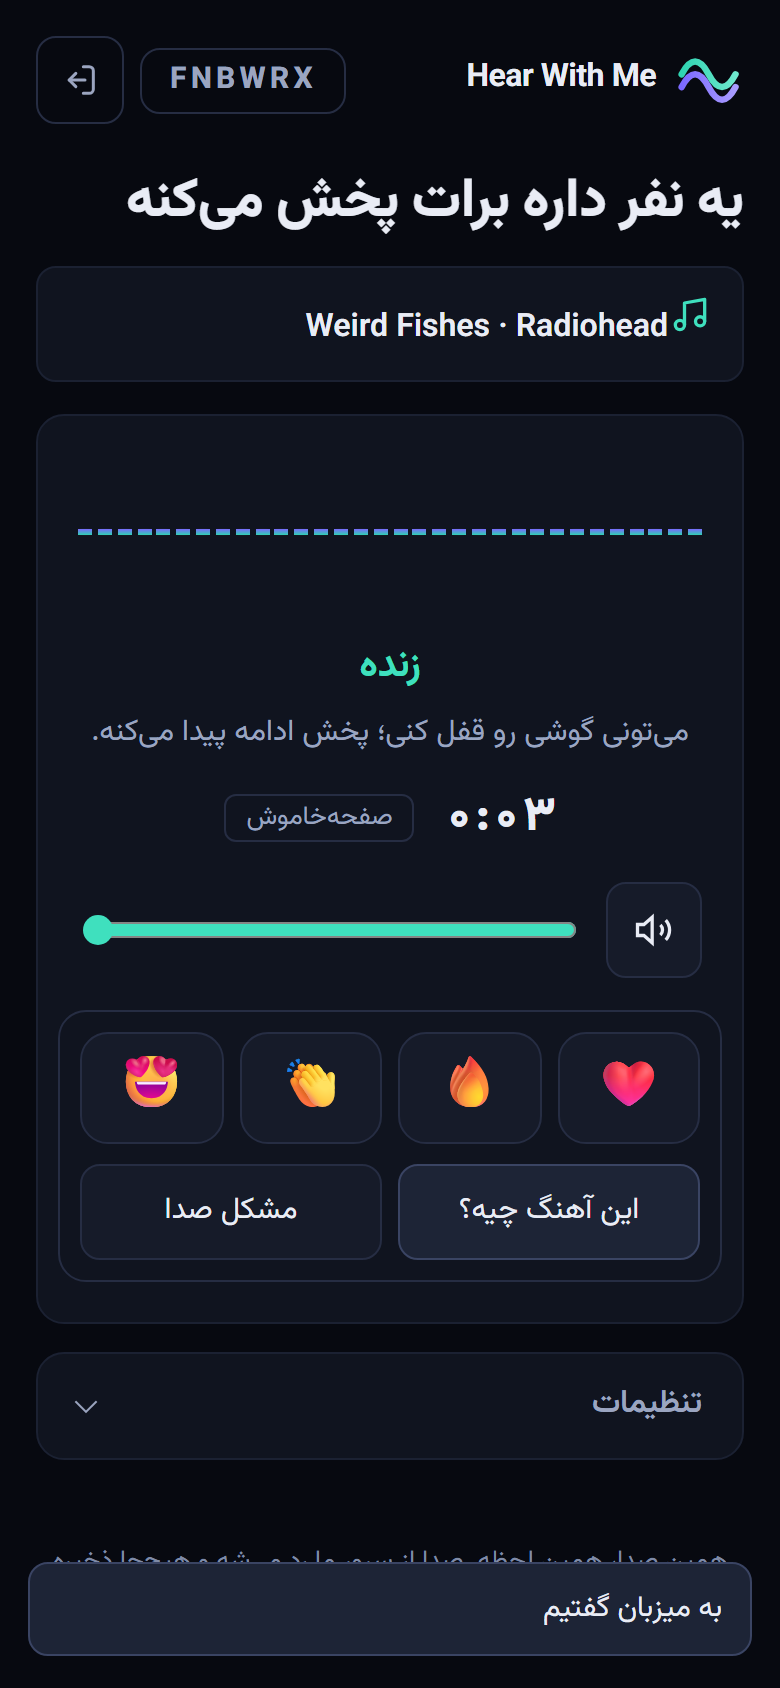
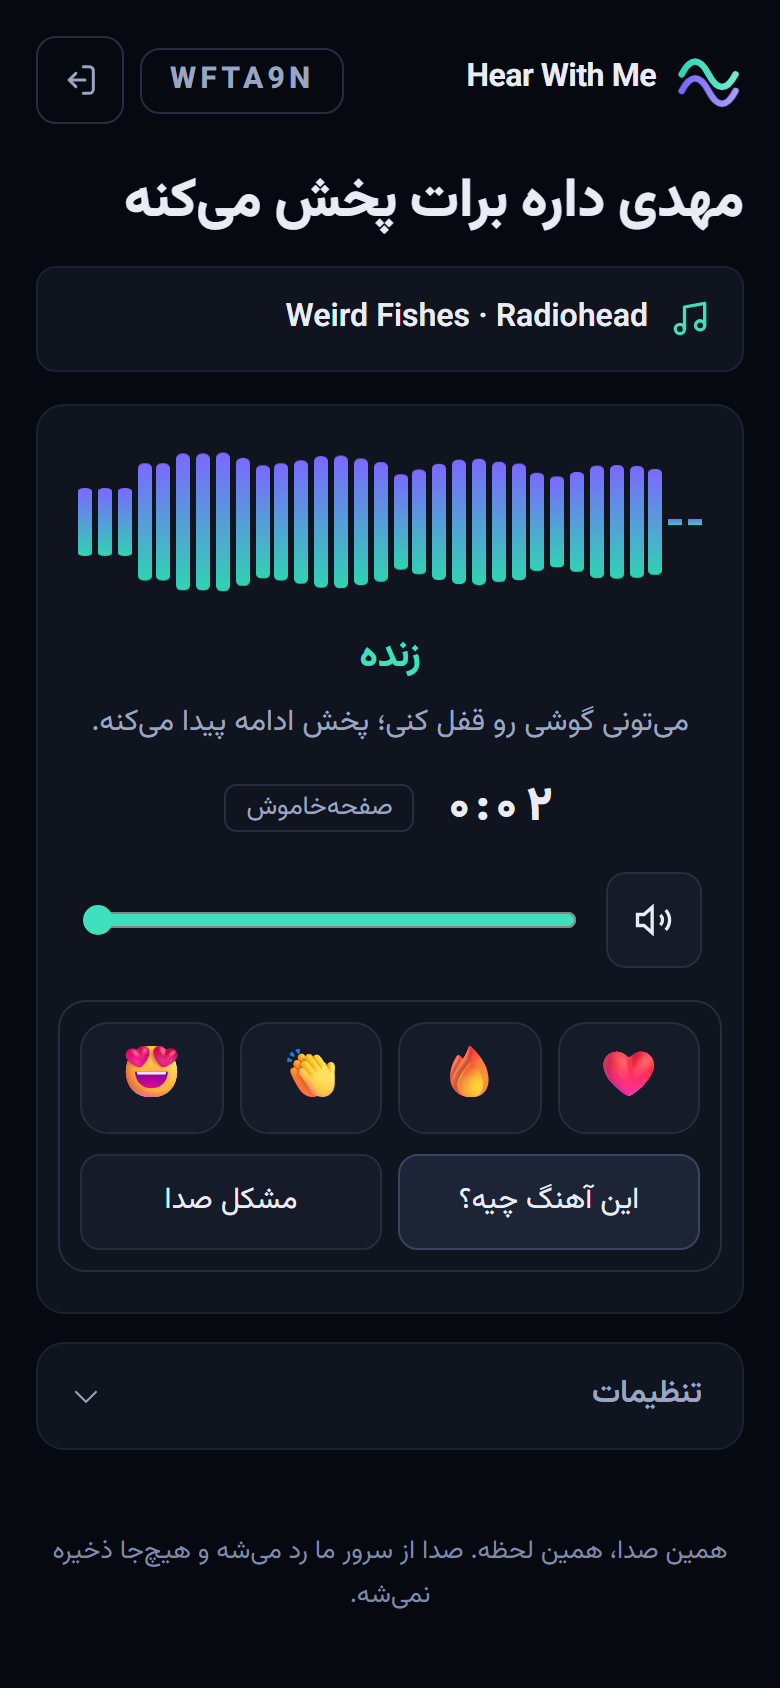
Dark only; fix the now-playing row; truthful README images
- Remove the light scheme: the pages are dark, as before.
- The now-playing row was set to display:block by show(), which broke its
  flex layout and left the note icon off-centre. It now stays a flex row.
- Screenshots: the guest and host both join before the sound starts, and
  the host plays a generated track so the meter is up in the shot, instead
  of catching a silent gap of the fake capture device.
- README: drop the light-scheme image and text.

diff --git a/public/style.css b/public/style.css
@@ -6,9 +6,8 @@
    landing wave, the level meter and the mark, and nowhere else. Everything
    else is flat: one ground, one panel colour, hairlines, no shadows.
 
-   Dark is the default because this is listened to in the evening, on a
-   phone, in a dark room or a car. A light scheme follows the system
-   setting for daytime. Both come from the same tokens below.
+   Dark only, on purpose: this is listened to in the evening, on a phone, in a
+   dark room or a car, and one look is easier to keep right than two.
 
    Dials: ENERGY 1 / RHYTHM 2 / MOTION 1. The only thing that moves on its
    own is the landing wave and the live meter; both are the product.
@@ -26,7 +25,9 @@
 }
 
 :root {
-  color-scheme: dark light;
+  /* Native controls (checkboxes, the select popup, the scrollbar) are painted
+     by the browser, and without this they come out light on a dark page. */
+  color-scheme: dark;
 
   /* ground */
   --bg: #070910;
@@ -68,37 +69,6 @@
   --ease: cubic-bezier(.2, .8, .2, 1);
 }
 
-@media (prefers-color-scheme: light) {
-  :root {
-    --bg: #F6F7FB;
-    --panel: #FFFFFF;
-    --panel-2: #EEF0F7;
-    --panel-3: #E3E6F1;
-    --field: #FFFFFF;
-    --line: #CDD3E4;
-    --line-strong: #98A1BE;
-    --line-soft: #E1E5F0;
-
-    --text: #12151F;
-    --muted: #444D69;   /* 8.0:1 on white */
-    --faint: #5A6483;   /* 5.9:1 on white, 5.4:1 on --bg */
-
-    --signal: #0A7A66;       /* 5.4:1 on white */
-    --signal-fill: #16B696;
-    --on-signal: #03130E;    /* 8.4:1 on --signal-fill */
-    --violet: #5B4BDB;
-    --wave-alpha: .42;
-
-    --st-live: #0A7A66;
-    --st-wait: #9A5F00;
-    --st-idle: #5A6483;
-    --st-alert: #C0283A;
-    --alert-text: #9E1B2B;
-    --on-alert: #FFFFFF;
-
-    --scrim: rgba(246, 247, 251, .88);
-  }
-}
 
 *, *::before, *::after { box-sizing: border-box; }
 
@@ -798,7 +768,7 @@ input[type="text"].code-input::placeholder { letter-spacing: 0; text-transform: 
 .qr-code {
   width: min(232px, 62vw);
   margin: 0 auto 12px;
-  /* The code's own light colour in both schemes: the quiet zone is part of the
+  /* The code's own light colour: the quiet zone is part of the
      symbol, and a dark frame reads to a scanner as more code. */
   background: var(--qr-bg);
   border-radius: var(--r-control);

diff --git a/public/index.html b/public/index.html
@@ -5,9 +5,8 @@
   <meta name="viewport" content="width=device-width, initial-scale=1, viewport-fit=cover" />
   <title>Hear With Me | هرچی میشنوی، اونم بشنوه</title>
   <meta name="description" content="صدای کامپیوترت رو با یه لینک، زنده برای هرکی خواستی پخش کن. بدون نصب، بدون حساب، و صدا هیچجا ذخیره نمیشه." />
-  <meta name="color-scheme" content="dark light" />
-  <meta name="theme-color" content="#070910" media="(prefers-color-scheme: dark)" />
-  <meta name="theme-color" content="#F6F7FB" media="(prefers-color-scheme: light)" />
+  <meta name="color-scheme" content="dark" />
+  <meta name="theme-color" content="#070910" />
 
   <link rel="icon" href="/favicon.svg" type="image/svg+xml" />
   <link rel="alternate icon" href="/favicon.ico" sizes="32x32" />

diff --git a/public/room.html b/public/room.html
@@ -5,9 +5,8 @@
   <meta name="viewport" content="width=device-width, initial-scale=1, viewport-fit=cover" />
   <title>اتاق Hear With Me | همین صدا، همین لحظه</title>
   <meta name="description" content="این اتاق زندهست. همون صدایی که میزبان میشنوه، همون لحظه به تو میرسه. بدون نصب، بدون حساب." />
-  <meta name="color-scheme" content="dark light" />
-  <meta name="theme-color" content="#070910" media="(prefers-color-scheme: dark)" />
-  <meta name="theme-color" content="#F6F7FB" media="(prefers-color-scheme: light)" />
+  <meta name="color-scheme" content="dark" />
+  <meta name="theme-color" content="#070910" />
 
   <!-- Filled in by whichever server is hosting this: "sse" for the Node
        server, "ws" for an edge runtime that cannot hold a response open. -->

diff --git a/public/js/guest-session.js b/public/js/guest-session.js
@@ -441,7 +441,7 @@ export function createGuestSession({
       title.textContent = text;
       ui.guestNowPlaying.append(note, hidden, title);
     }
-    show(ui.guestNowPlaying, !!text);
+    show(ui.guestNowPlaying, !!text, 'flex');
     publishMediaSession(text);
   }
 

diff --git a/README.fa.md b/README.fa.md
@@ -35,10 +35,6 @@
 </tr>
 </table>
 
-صفحهها تنظیم روشن یا تاریکِ سیستم رو دنبال میکنن. ظاهر پیشفرض تاریکه.
-
-<img src="docs/guest-light.png" width="260" alt="صفحهی مهمان در حالت روشن" />
-
 ## دو مسیر برای یک صدا
 
 | | همزمان (مستقیم) | صفحهخاموش |

diff --git a/README.md b/README.md
@@ -36,10 +36,6 @@ nothing behind when it closes.
 </tr>
 </table>
 
-The pages follow the system's light or dark setting. Dark is the default look.
-
-<img src="docs/guest-light.png" width="260" alt="The guest's page in the light scheme" />
-
 ## Two paths for one sound
 
 | | Direct | Screen-off |
